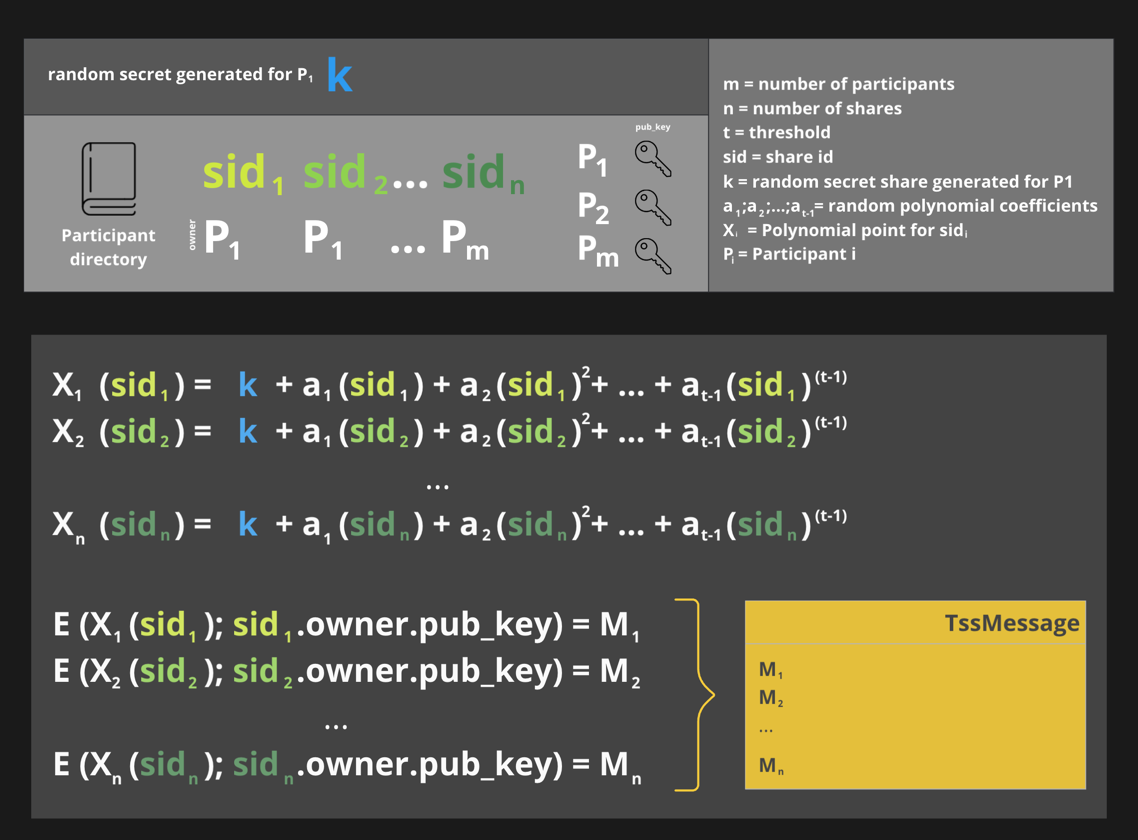
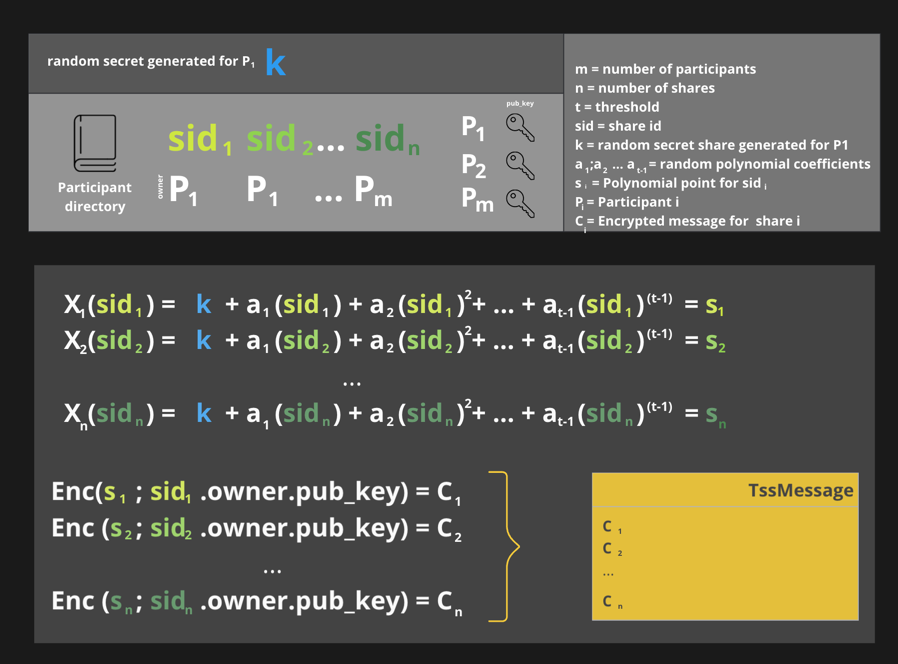
Proposal update

diff --git a/platform-sdk/docs/proposals/TSS-Library/TSS-Library.md b/platform-sdk/docs/proposals/TSS-Library/TSS-Library.md
@@ -9,7 +9,6 @@ Provide necessary components for signing messages using a TSS scheme.
 | Designers          | Austin, Cody, Edward, Rohit, Maxi, <br/> Platform team | 
 | Functional Impacts | Platform team. Release engineering. DevOps             |
 | Related Proposals  | TSS-Roster, TSS-Ledger-Id                              |
-| HIPS               | ?                                                      |
 
 
 ## Purpose and Context
@@ -36,13 +35,14 @@ the distribution aspect, the loading, and the in-memory interpretation from each
   to produce an aggregate signature that can be used to sign messages and an aggregate public key that can be used to verify that signature.
 - **Groth 21**: Publicly verifiable secret sharing and resharing schemes that enable secure and efficient distribution and management of secret shares,
   with many possible use cases supporting applications in distributed key generation and threshold signatures.
-  Uses Shamir's secret sharing, ElGamal, and ZK-Snarks.
+  Uses Shamir's secret sharing, ElGamal, and Zero-Knowledge Proofs.
 - **Shamir’s Secret Sharing**: In Shamir’s SS, a secret `s` is divided into `n` shares by a dealer, and shares are sent to shareholders secretly.
   The secret `s` is shared among `n` shareholders in such a way that:
   (a) any party with at least `t` shares can recover the secret, and (b) any party with fewer than `t` shares cannot obtain the secret.
 - **ElGamal**: On a message, the ElGamal signature scheme produces a signature consisting of two elements `(r, s)`, where `r` is a random number, and `s` is computed from the message, a signer's secret key, and `r`.
-- **zk-SNARKs**: The acronym zk-SNARK stands for Zero-Knowledge Succinct Non-Interactive Argument of Knowledge and refers
-  to a proof construction where one can prove possession of certain information, e.g., a secret key, without revealing that information or any interaction between the prover and verifier.
+- **SNARK**: they mean a proof system for proving arbitrary statements (circuits / programs).
+- **Zero-Knowledge Proofs**: A proof system where one can prove possession of certain information, e.g., a secret key, without revealing that information or any interaction between the prover and verifier.
+- **NIZK**: A non-interactive zero-knowledge proof for an statement. In TSS we use NIZK proofs for encoding the correctness of the secret sharing.
 - **EC (Elliptic Curve)**: `Elliptic` is not elliptic in the sense of an `oval circle`. In the field `Fp`, an `EC` is like a non-connected cloud of points where
   all points satisfy an equation, and all operations are performed modulo `p`. Some elliptic curves are pairing-friendly.
 - **Bilinear Pairings**: These are mathematical functions used in cryptography to map two elements of different groups (in EC, the group is an elliptic curve) to a single value in another group
@@ -52,6 +52,11 @@ the distribution aspect, the loading, and the in-memory interpretation from each
 - **Share**: Represents a piece of the necessary public/private elements to create signatures. In TSS,
   a threshold number of shares is needed to produce an aggregate signature that the ledger public key can later verify.
 - **Polynomial Commitment**: It enables verification of evaluations of the polynomial at specific points without revealing the entire polynomial.
+- **Participant**: Any party involved in the distributed key generation protocol. Their goal is to generate a public key and provide a set of receivers with matching secret shares of the secret key. 
+  The set of participants that act as dealers and the set of participants acting as receivers may be identical, overlapping or disjoint.
+- **Participant Directory**: An address book of Participants of the distributed key generation protocol.
+
+Each scheme participant will receive its persistent EC private key from an external source and all participants' EC public keys.
 
 ### Goals
 - **Usability**: Design user-friendly libraries with a public API that are easy to integrate with other projects, such as consensus node and block node.
@@ -78,10 +83,6 @@ which may or may not overlap with the original set of shareholders.
 
 
 #### Overview
-Here, the word participant describes parties producing the aggregate signature and aggregate public key.
-
-Each scheme participant will receive its persistent EC private key from an external source and all participants' EC public keys.
-
 This proposal covers the implementation of a tool similar to ssh-keygen to generate those keys, but the generation, persistence, distribution
 and loading of those keys is outside the scope of this proposal.
 
@@ -158,11 +159,10 @@ P₁  	P₁  	P₁  	P₁  	P₁  	P₂  	P₂  	P₃  	P₄  	P₄
 
 ##### 1. Create TssMessage
 `TssMessage`: A data structure for distributing encrypted shares of a secret among all participants in a way that only the intended participant can see its part of the share.
-It includes validation information like a commitment to a secret share polynomial and a zk-SNARKs proof.
-Both proof and commitment can be used to verify the message’s validity and assemble an aggregate public key (referred to as ledgerId).
+It includes auxiliary information used to validate its correctness and assemble an aggregate public key ie: a commitment to a secret share polynomial and a NIZK proof.
 
+###### Generation of the shares
 In the bootstrap process, each participant creates a random EC Private Key `k` out of the Field of the `SignatureScheme` (the secret being shared).
-
 
 ```
 `k`  -  A random EC Private Key for the participant
@@ -178,25 +178,68 @@ Then, each shareholder will produce `n` (n=total number of shares) values `Xₛ`
 The polynomial `Xₖ` is a polynomial with degree `t-1` (t=threshold) with the form:
 `Xₖ = k + a₁x + ...aₜ₋₁xᵗ⁻¹`[ having: `a₁...aₜ₋₁`: random coefficients from `SignatureScheme.publicKeyGroup` and `k`'s EC field element. x is a field element, thus allowing the polynomial to be evaluated for each share id]
 
-Each `xₛ = Xₖ(sidₛ)` constitutes a point on the polynomial.
+Each `sₛ = Xₖ(sidₛ)` constitutes a point on the polynomial.
 
-Once the `xₛ` value has been calculated for each `ShareId`: `sidₛ`, the value: `Mₛ` will be produced by encrypting the `xₛ` using the `sidₛ` owner's public key.
-The TssMessage will contain all the encrypted values for all shares.
-
+Once the `sₛ` value has been calculated for each `ShareId`: `sidₛ`, the value: `Cₛ` will be produced by encrypting the `sₛ` using the `sidₛ` owner's public key.
 ![img.png](img.png)
 
-A TssMessage class diagram:
+The TssMessage will contain all the encrypted values for all shares.
+
+###### Generation of the Polynomial Commitment
+Secret sharing poses a problem for the receiver: did it get a correct share? 
+The dealer may give her a bad share that does not correspond to the dealing, or give so many fake shares to different receiver that they do not correspond to a real dealing. 
+We include a Feldman commitment to the polynomial.
+
+```
+ g = a point generator of `SignatureScheme.publicKeyGroup`
+ aₒ...aₜ₋₁ = coefficients of the polynomial being commited to.
+```
+For each coefficient in the polynomial `Xₖ` `a₍ₒ₎` to `a₍ₜ₋₁₎`, computes a commitment value by calculating: `gᵢᵃ⁽ⁱ⁾ ` (g elevated to the polynomial coefficient `a₍ᵢ₎` )
+
+###### Generation of the NIZKs proofs
+
+Generate a NIZK proof that these commitments and the encrypted shares correspond to a valid sharing of the secret according to the polynomial.
+
+Given the input:
+
+* witness: structure with secrets that include private shares(sᵢ) and randomness used during the encryption.
+
+* statement: The information to proof (sidᵢs,public_keys, polynomial_commitment, encrypted_shares )
+
+* rng: source of randomness
+
+1. Serialize statement
+2. Initialize a pseudorandom number generator using the `SHA256` hash of (1)
+3. `x` = Random out of the random generator in (2)  
+4. Generate random values `α`, `ρ` from the `SignatureScheme.field` out of rng
+5. `g` = `SignatureScheme.publicKeyGroup.generator`
+  5.1    `F = g^ρ`
+  5.2    `A = g^α`
+6. Calculate `Y` by transforming element of the statements (public keys, sids) multiplied by `ρ`, then adding `A`
+    
+7. Serialize (`x`, `F`, `A`, `Y`)
+8. Recompute the pseudorandom number generator seed using the hash of (7)
+9. `x'` = Random out of the random generator in (8)
+    
+10. `z_r` = `x'` * `witness.randomness` + `ρ`
+11. `z_a` = `x'` + `α` + Sum(`sᵢ` * `x`.pow(`sidᵢ`))
+    
+Return the proof composed of `F`, `A`, `Y`, `z_r`, and `z_a`
+
+###### A TssMessage class diagram
 
 ![img_3.png](img_3.png)
 
 ##### Outside of scope
 Using an established channel, each participant will broadcast a single message to be received by all participants
 while waiting to receive other participants' messages. This functionality is critical for the protocol to work but needs to be handled outside the library.
-Each participant will validate the received message against the commitment and the zk-SNARKs proof. Invalid messages needs to be discarded.
+Each participant will validate the received message against the commitment and the NIZKs proof. Invalid messages needs to be discarded.
 
 ##### 2. Validation of TssMessage
-Each message can be validated against the commitment and the zk-SNARKs proof.
 The validation is produced over the content of the message and does not include the sender's identity, which is assumed to be provided by the external channel.
+Each message can be validated against the commitment and the proof by:
+* Checking that the encrypted shares correspond to the commitments.
+* and, that the commitments are consistent with the public values and the generated proof.
 
 
 ##### 3. Processing of TssMessage
@@ -221,6 +264,7 @@ The rekeying process can happen, too, if the parameters are the same as the gene
 
 The rekeying process is similar to the bootstrap process, but it starts with the previous list of owned private `SecretShare`.
 The main difference with the genesis stage is that every participant generates a `TssMessage` out of each previously owned `SecretShare`.
+
 
 ![img_4.png](img_4.png)
 
@@ -260,19 +304,19 @@ To implement the functionality detailed in the previous section, the following c
    using a predefined organization so they can be accessed with JNI.
 6. **Arkworks[https://github.com/arkworks-rs]**:  arkworks is a Rust ecosystem for zkSNARK programming.
    Our implementation uses it as the library responsible for elliptic curve cryptography.
-7. **EC-Key Utils ** is a utility module that enables the node operator to generate a bootstrapping public/private key pair.
+7. **EC-Key Utils** is a utility module that enables the node operator to generate a bootstrapping public/private key pair.
 
 ### Module organization and repositories
 ![img_6.png](img_6.png)
 1. **hedera-cryptography**: This is a separate repository for hosting cryptography-related libraries.
    It is necessary to facilitate our build process, which includes Rust libraries. It also provides independent release cycles between consensus node code and block node code.
 2. **swirlds-native-support**: Gradle module that enables loading into memory compiled native libraries so they can be used with JNI.
-3. **swirlds-cryptography-tss**: Gradle module for the TSS Library.
+3. **swirlds-crypto-tss**: Gradle module for the TSS Library.
    This library's only client is the consensus node, so it will be in the hedera-services repository, under the `platform-sdk` folder.
-4. **swirlds-cryptography-signatures**: Gradle module for the Bilinear Pairings Signature Library.
-5. **swirlds-cryptography-pairings-api**: Gradle module for the Bilinear Pairings API. Minimizes the impact of adding or removing implementations.
-6. **swirlds-cryptography-alt128**: Gradle module that will implement the Bilinear Pairings API using alt-128 elliptic curve.
-   That curve has been chosen due to EVM support. The artworks rust library will provide the underlying cryptography implementation.
+4. **swirlds-crypto-signatures**: Gradle module for the Bilinear Pairings Signature Library.
+5. **swirlds-crypto-pairings-api**: Gradle module for the Bilinear Pairings API. Minimizes the impact of adding or removing implementations.
+6. **swirlds-crypto-alt128**: Gradle module that will implement the Bilinear Pairings API using alt-128 elliptic curve.
+   That curve has been chosen due to EVM support. The arkworks rust library will provide the underlying cryptography implementation.
    The module will include Java and Rust codes that will be compiled for all possible system architectures and distributed in a jar under a predefined structure.
 
 ### Libraries Specifications
